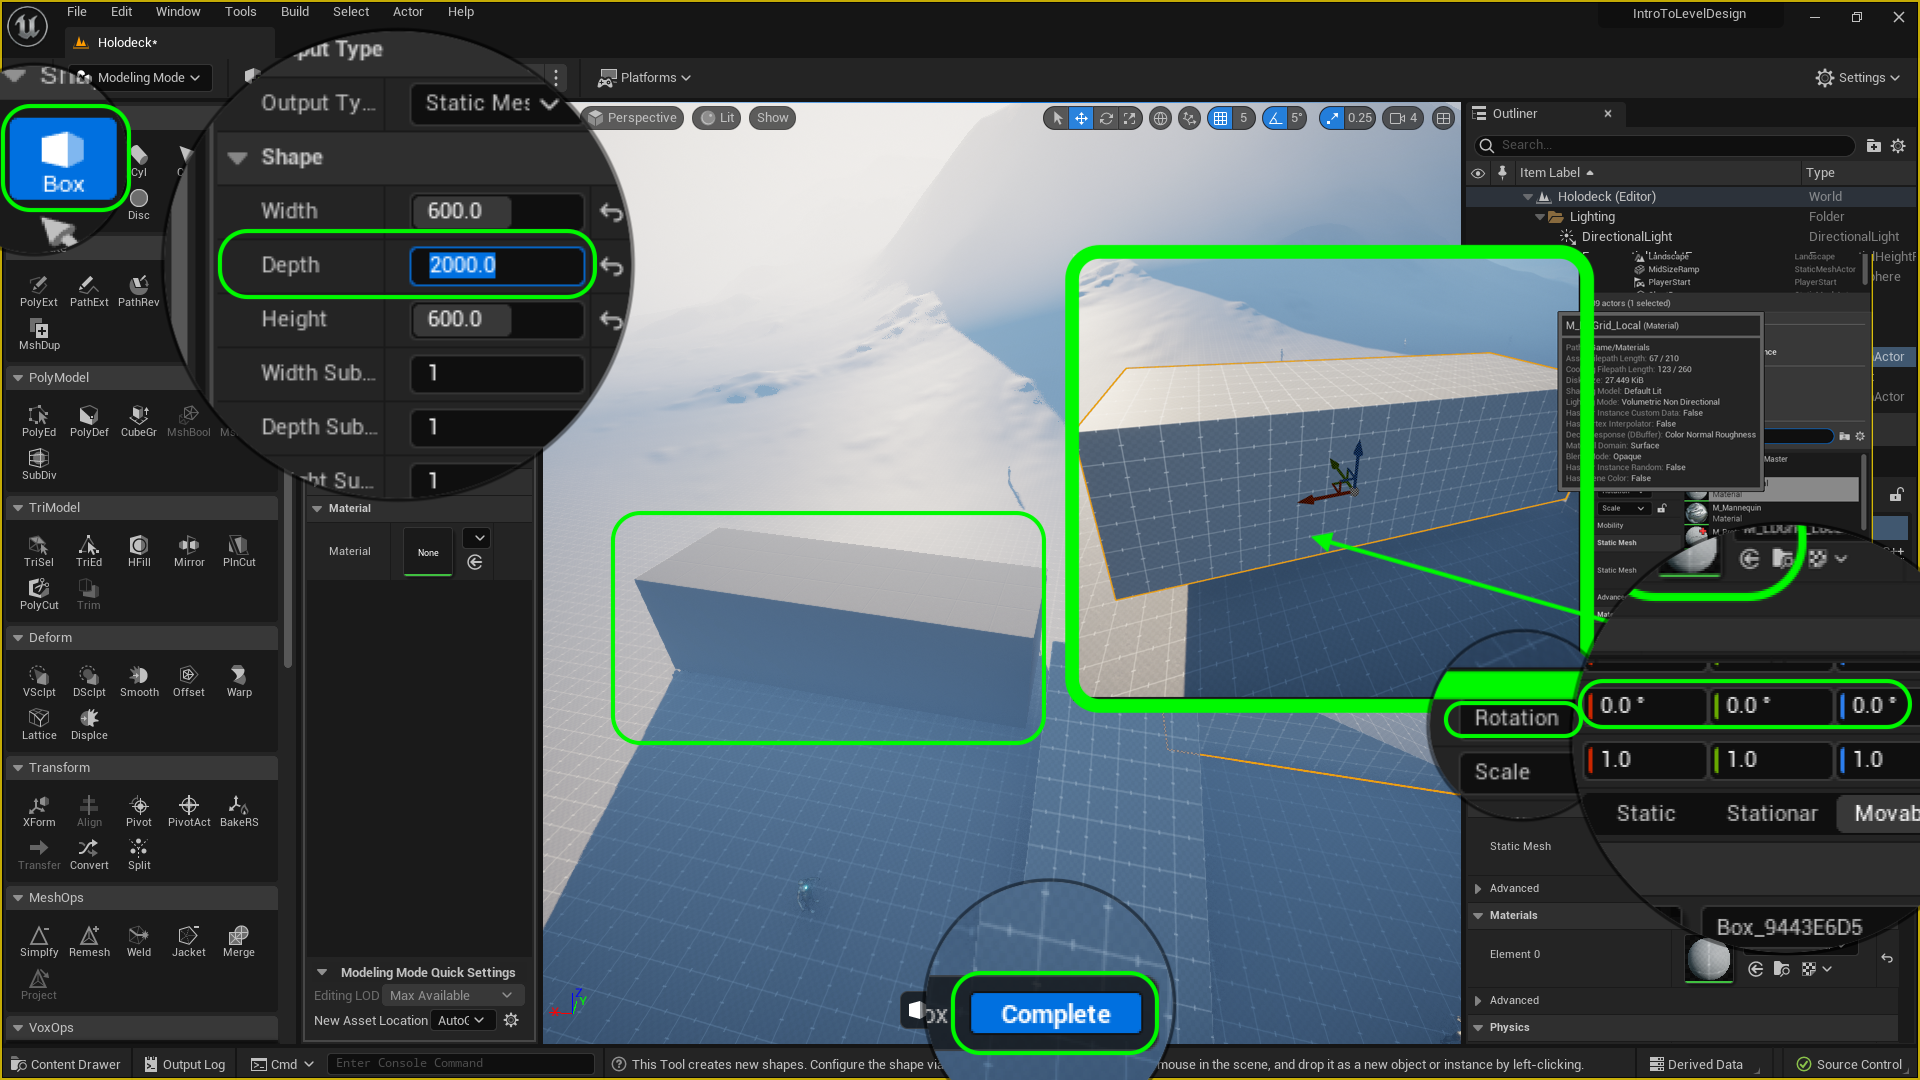
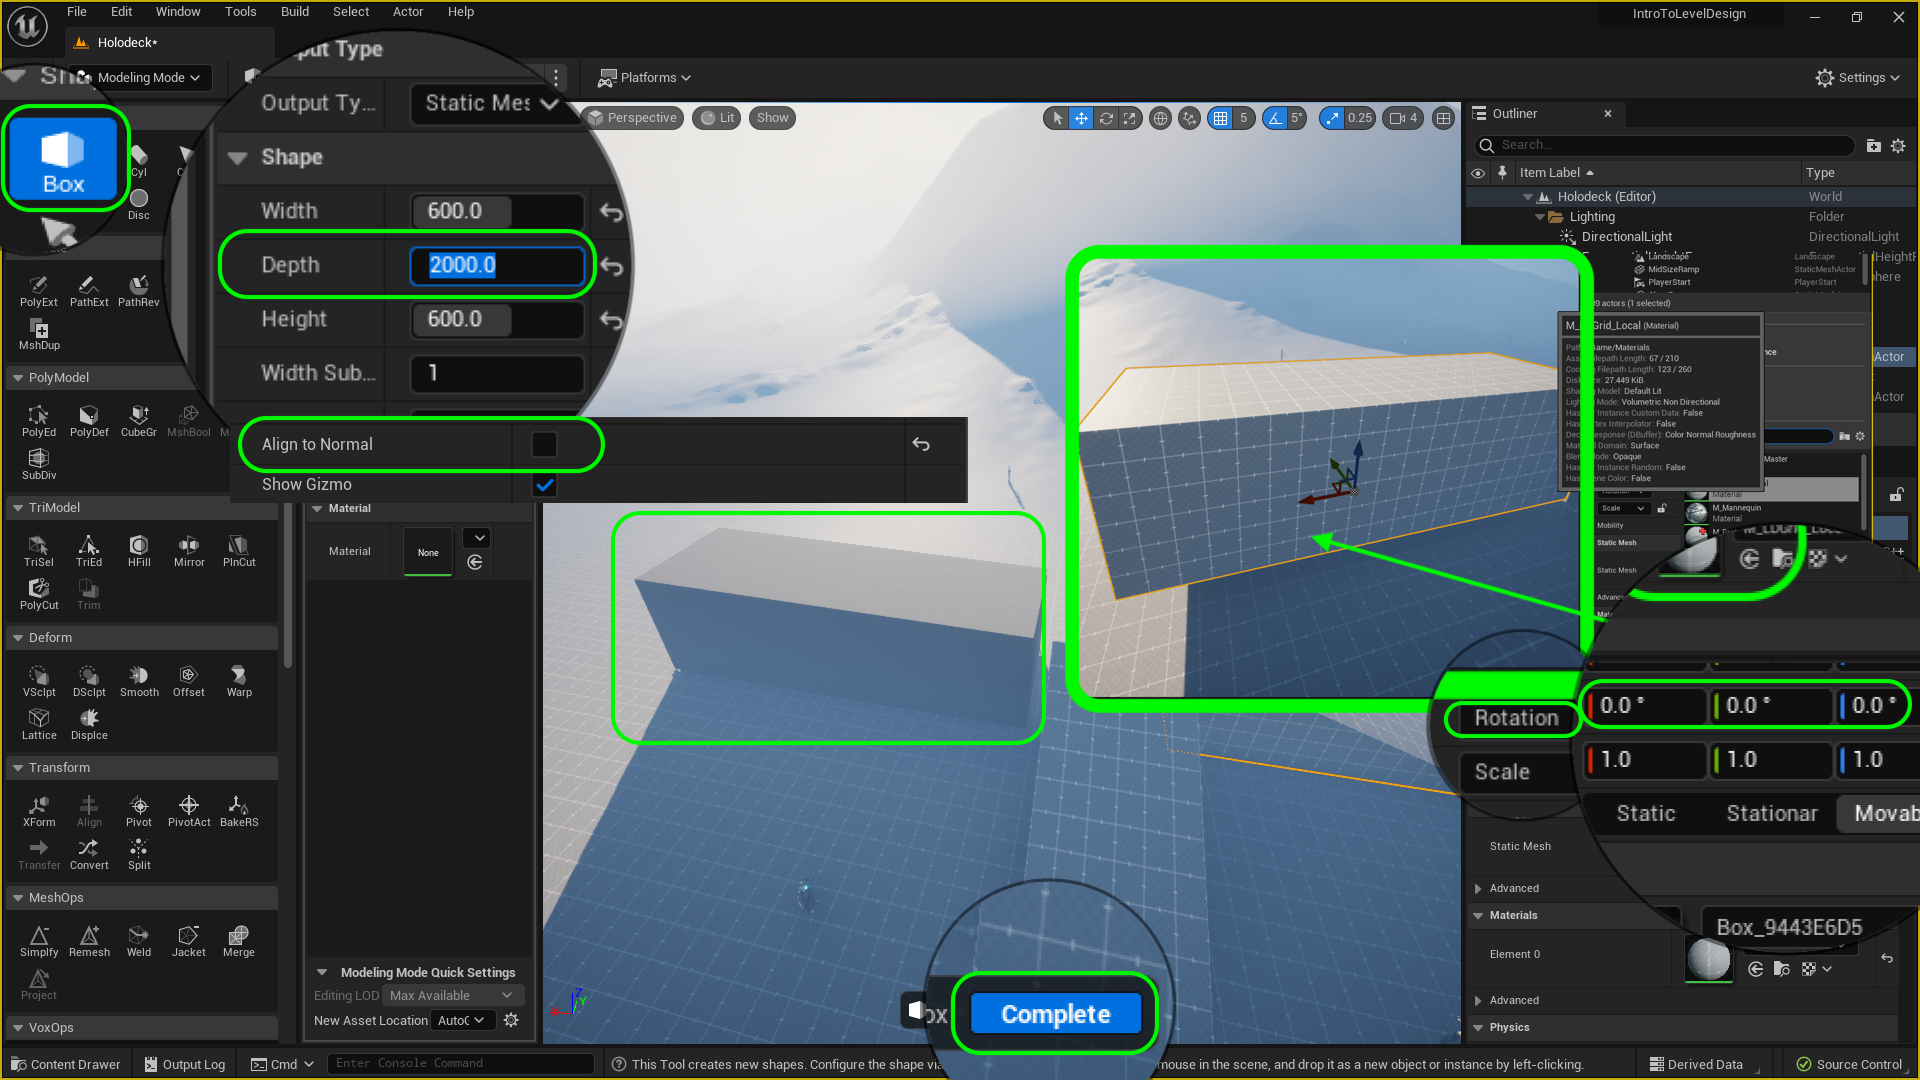
Update to Unreal 5.2

Changed region(s): [[0.125, 0.3667, 0.5312, 0.4889]]

diff --git a/ramps2/README.md b/ramps2/README.md
@@ -15,30 +15,43 @@ Lets create the final ramp to complete the four touching ramps.  We will then ad
 
 ##### `Step 1.`\|`SUU&G`|:small_blue_diamond:
 
+Now we need to add more polygons to the faces so we can have a curved ramp rather than a single surface made with two triangles.  Go to **Poly Model | Poly Edit** and go to **Shape Edits | Insert Edge Loop**.  This will allow you to click along the long edge and a a loop and subdivide our ramp every 2 meters (2 squares in the material).  Lock in the changes by pressing the <kbd>Accept</kbd> button. Now go back to **Poly Model | Poly Edit** mode and adjust the edges so that we get a nice S loop in the ramp.  Press the <kbd>Accept</kbd> button.
+
+https://user-images.githubusercontent.com/5504953/178083448-a8920371-50e6-4f5f-8de3-822d0aef0158.mp4
+
+
+![](../images/line2.png)
+
+##### `Step 2.`\|`FHIU`|:small_blue_diamond: :small_blue_diamond: 
+
+Now that we have completed it we need to put it with the other ramps so that they touch at the corners.  Make sure the **Z** heights are the same, then go into **Top** view in **Polygon** viewer to line them up perfectly.
+
+![Line up third ramp and make sure it is orthogonal](images/LineUpThirdRamp.png)
+
+Now play the game and run up and down the new curved ramp!
+
+https://user-images.githubusercontent.com/5504953/178085499-15b378f3-4a52-4803-83fa-24292c6d5ee5.mp4
+
+![](../images/line2.png)
+
+##### `Step 3.`\|`SUU&G`|:small_blue_diamond: :small_blue_diamond: :small_blue_diamond:
+
 Create a fourth ramp on your own.  Try being creative with the design! Then make sure it lines up in the las slot.  You should now have a perfect 600 unit hole inbetween the four ramps!
 
 ![create fourth ramp and line up](images/fourthRamp.png)
 
 ![](../images/line2.png)
 
-##### `Step 2.`\|`FHIU`|:small_blue_diamond: :small_blue_diamond: 
+##### `Step 4.`\|`SUU&G`|:small_blue_diamond: :small_blue_diamond: :small_blue_diamond: :small_blue_diamond:
 
 Now play the game and you should have 4 ramps with a 600 cm square cube gap in the center.  Make sure the heights are the same and the corners are joined at the diagonals.  You should not see light leaking through in the engine.
 
 https://user-images.githubusercontent.com/5504953/178107459-6a4ad523-b5ed-4c59-97ad-14101f7835c8.mp4
 
-![](../images/line2.png)
-
-##### `Step 3.`\|`SUU&G`|:small_blue_diamond: :small_blue_diamond: :small_blue_diamond:
-
 Now lets fill the center gap so the player can run over it.  Create another **Box** that is `600` cm ins size in **Width**, **Depth** and **Height**.  Press the <kbd>Complete</kbd> button.
 
 ![create a 600 square foot box](images/600box.png)
 
-
-![](../images/line2.png)
-
-##### `Step 4.`\|`SUU&G`|:small_blue_diamond: :small_blue_diamond: :small_blue_diamond: :small_blue_diamond:
 
 Assign the **M_LDGrid_Local** material to the new model.  Make sure the **Rotations** are set to `0` on all axis.  Put this shape in the center to fill the hole between the four ramps.  Be precise and get everything to line up!
 

diff --git a/ramp/README.md b/ramp/README.md
@@ -185,7 +185,7 @@ https://user-images.githubusercontent.com/5504953/178083430-eb1429a8-94e3-46ba-9
 
 ##### `Step 21.`\|`UE5LD`| :large_blue_diamond: :large_blue_diamond: :small_blue_diamond:
 
-Lets add a third ramp.  This time we will make it a more interesting shape and not just a straight ramp.  The tools allow us to make more complex shapes.  Go back to **Modeling Mode** and select another **Box** that is `600` cm in **Width** and **Height** but a full `2000` cm in **Depth**.  After placing it in the level press the <kbd>Complete</kbd> button.  Change the **Material** to `M_LDGrid_Local`. Make sure you set **ALL** rotations to `0`.
+Lets add a third ramp.  This time we will make it a more interesting shape and not just a straight ramp.  The tools allow us to make more complex shapes.  Go back to **Modeling Mode** and select another **Box** that is `600` cm in **Width** and **Height** but a full `2000` cm in **Depth**.  After placing it in the level press the <kbd>Complete</kbd> button.  Change the **Material** to `M_LDGrid_Local`. It is important to have **Align to Normal** set to `false`. Make sure you set **ALL** rotations to `0`.
 
 ![check in above for skewing](images/thirdRampStart.png)
 
